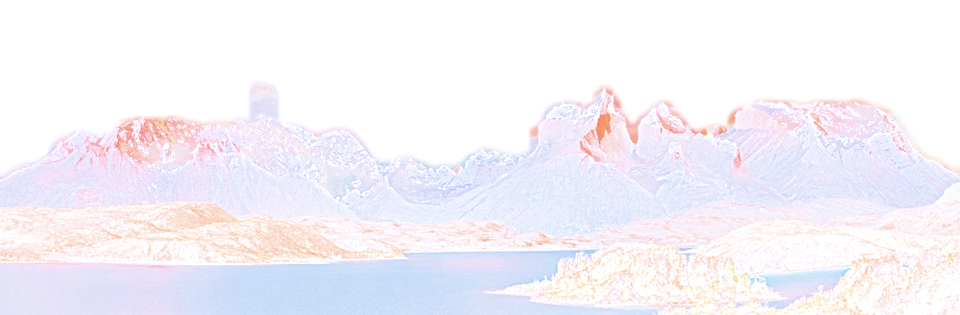
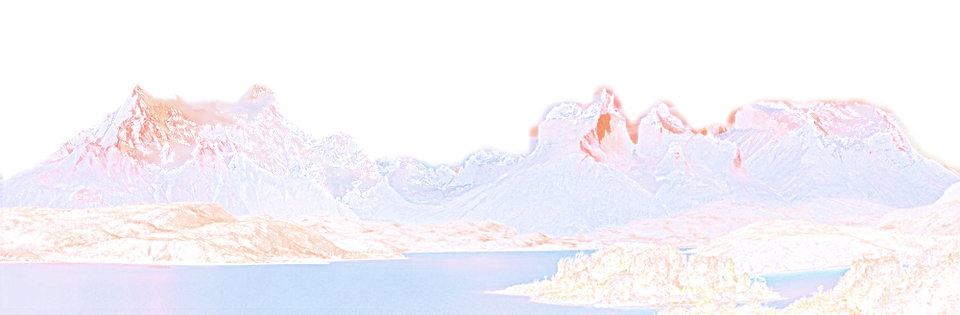
fixed the mountain mastiff not showing after py script removed the cloud

diff --git a/site.js b/site.js
@@ -423,7 +423,7 @@ onPage(() => document.querySelectorAll('a[href="#top"]').forEach(a => a.addEvent
       done({ img, peak: Math.floor((k >> 2) / c.width) / c.height });
     };
     img.onerror = () => done(null);
-    img.src = `images/mountains-${theme}.webp?v=8`;   // bump after re-running tools/mountains_mask.py
+    img.src = `images/mountains-${theme}.webp?v=10`;   // bump after re-running tools/mountains_mask.py
   });
   const sample = document.createElement('canvas'), sctx = sample.getContext('2d', { willReadFrequently: true });
 

diff --git a/tools/mountains_mask.py b/tools/mountains_mask.py
@@ -3,6 +3,9 @@
 The photo is squashed vertically first (SQUASH), so everything after works on the compressed image and the page's
 dots sample it evenly. Clouds are smooth and rock is textured, so the ridge in each column is the first row (from the top) where the local
 texture stays high. Everything below the ridge is kept, everything above becomes transparent, with a soft edge.
+Clouds hide the top of the left massif, so left of SEAM the photo and its mask come from PATCH instead: a copy of the
+same photo with the clouds painted out and the sky plain white, so its sky is just the near-white area joined to the
+top edge (snow is never that bright).
 Writes a small RGBA image per theme, which the page dithers into dots. RGB is each dot's colour, and alpha is how
 dense the dots are there (the sky mask times the tone), so the page just reads it off:
   images/mountains-dark.webp   light dots on black: bright snow and lit rock get the most dots, in the photo's colours
@@ -19,6 +22,11 @@ SRC = 'mountains-src/torres-del-paine-panorama.png'
 SQUASH = 1           # the photo is squashed to this share of its height first (the panorama is already wide and low)
 THRESH, RUN = .035, 12   # texture that counts as rock, and how many rows of it in a row mark the ridge
 INSET = 6   # rows to pull the edge down by, since the texture blur spreads a little onto the cloud above
+PATCH = 'mountains-src/patagonia.jpg'
+FIT = (.7864, 5.09, 4.9)   # PATCH onto SRC: scale, then x and y offset in SRC px (matched by feature points)
+SEAM, BLEND = 562, 40      # SRC px: PATCH is used left of the valley at SEAM, fading over BLEND
+WHITE = .94          # every channel of PATCH above this counts as sky (the brightest snow is about .91)
+PATCH_INSET = 3      # px to pull PATCH's edge in by, so the jpeg's pale fringe around the ridge doesn't become dots
 
 src = Image.open(SRC).convert('RGB')
 aspect = src.height / src.width * SQUASH
@@ -39,6 +47,24 @@ ridge = ndi.median_filter(ridge, 9) + INSET   # drop single-column spikes from c
 rows = np.arange(h)[:, None]
 mask = np.clip((rows - ridge[None, :]) / 6 + .5, 0, 1)   # 6px feather at the ridge
 mask = ndi.gaussian_filter(mask, 1.5)
+
+# PATCH, moved onto SRC's pixels. its alpha marks where it covers SRC (it falls a few px short of the edges)
+k, dx, dy = FIT
+patch = Image.open(PATCH).convert('RGBA').transform(src.size, Image.AFFINE, (1 / k, 0, -dx / k, 0, 1 / k, -dy / k),
+                                                    Image.BICUBIC, fillcolor=(0, 0, 0, 0))
+patch = np.asarray(patch.resize(WORK, Image.LANCZOS), dtype=np.float64) / 255
+# the uncovered rows above PATCH count as white too, so its sky still reaches the top edge (SRC is used there anyway)
+covered = patch[..., 3] > .5
+above = rows < covered.argmax(axis=0)[None, :]
+labels, _ = ndi.label((patch[..., :3].min(axis=2) > WHITE) | above)
+sky = np.isin(labels, np.setdiff1d(labels[0], 0))   # the white areas touching the top edge
+patch_mask = ndi.gaussian_filter(ndi.binary_erosion(~sky, iterations=PATCH_INSET).astype(float), 1.5)
+
+cols = np.arange(w) * src.width / w
+use = (np.clip((SEAM - cols) / BLEND + .5, 0, 1)[None, :] * patch[..., 3])[..., None]
+im = im * (1 - use) + patch[..., :3] * use
+lum = im[..., 0] * .299 + im[..., 1] * .587 + im[..., 2] * .114
+mask = mask * (1 - use[..., 0]) + patch_mask * use[..., 0]
 
 if os.environ.get('MASK_PREVIEW'):   # MASK_PREVIEW=out.png also saves the photo over magenta where it's cut out
     Image.fromarray((np.dstack([im, mask]) * 255).round().astype(np.uint8)).save(os.environ['MASK_PREVIEW'])
